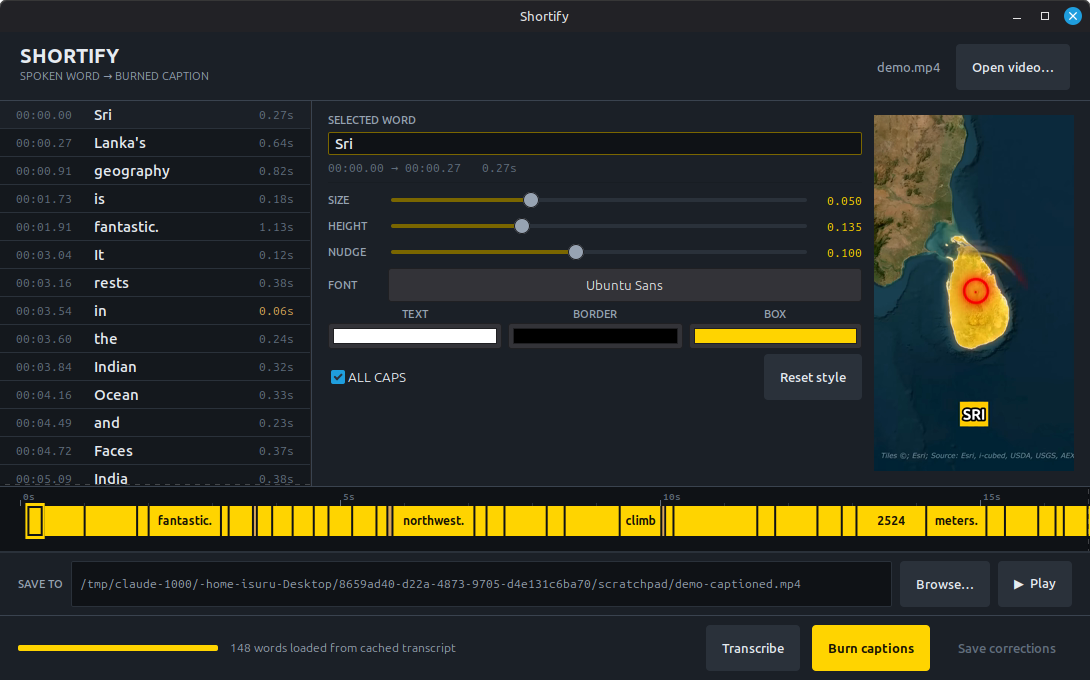
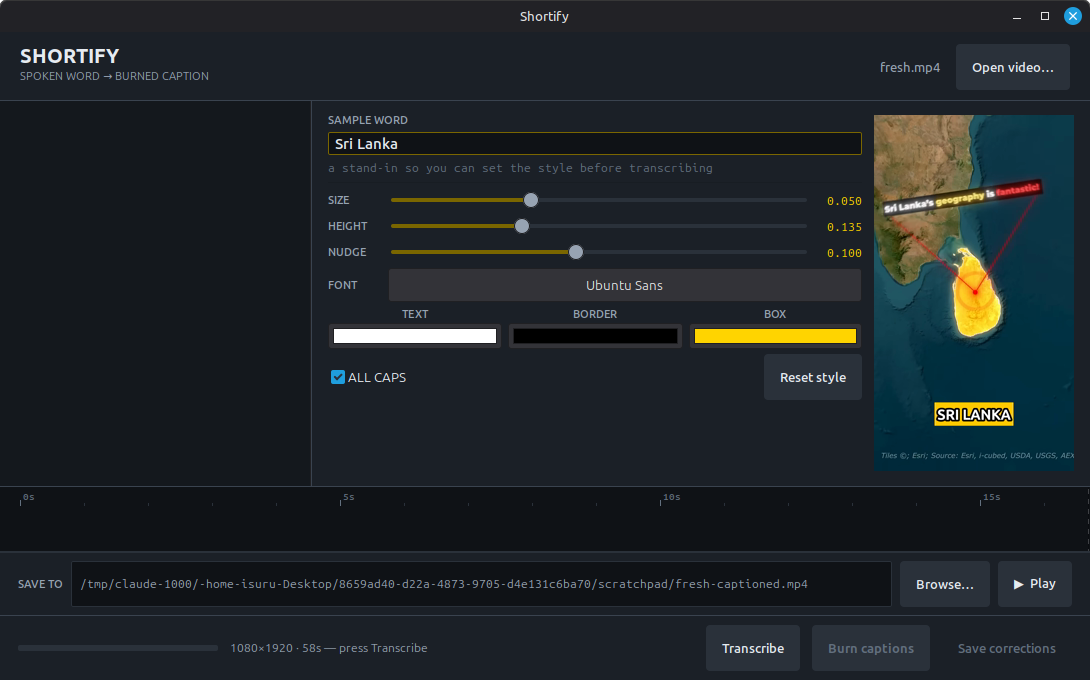
Live sample word so style is visible before transcribing
Loading a video showed a bare frame: the style sliders moved but changed
nothing on screen until a transcript existed. The word box now doubles as a
sample field before transcription, rendering a stand-in caption (default
"Sri Lanka") through the real ASS pipeline, so size, height, colours and font
are all visible immediately. Multi-word samples work, which shows how a wide
caption sits in frame.

Also guards settings persistence until the widget tree is built -- the entry's
changed signal fired during _panel() before the sliders existed, and the
resulting AttributeError was being swallowed.

diff --git a/gui/ui.py b/gui/ui.py
@@ -15,7 +15,7 @@ from ribbon import Ribbon
 CONFIG = Path(os.path.expanduser("~/.config/shortify/settings.json"))
 DEFAULTS = dict(fontscale=0.050, marginscale=0.135, offset=0.100,
                 boxcolor="FFD400", textcolor="FFFFFF", bordercolor="000000",
-                font="Ubuntu Sans", upper=True)
+                font="Ubuntu Sans", upper=True, sample="Sri Lanka")
 
 SHORT_WORD = 0.10      # below this, timing is probably a glitch
 LONG_WORD  = 1.60      # above this, the caption hangs
@@ -95,6 +95,7 @@ class Shortify(Gtk.Window):
         self.busy = False
         self.proc = None
         self.cur = -1
+        self._ready = False
         self.tmp = Path(tempfile.mkdtemp(prefix="shortify-"))
         self.cfgv = self._load_settings()
 
@@ -113,6 +114,7 @@ class Shortify(Gtk.Window):
         self.connect("destroy", self._quit)
         self.connect("key-press-event", self._keys)
         self.stack.set_visible_child_name("empty")
+        self._ready = True          # widgets all exist; signals may now persist state
 
     # ---------- settings ----------
     def _load_settings(self):
@@ -124,6 +126,8 @@ class Shortify(Gtk.Window):
         return v
 
     def _save_settings(self):
+        if not self._ready:
+            return
         try:
             CONFIG.parent.mkdir(parents=True, exist_ok=True)
             json.dump(self._style(), open(CONFIG, "w"), indent=1)
@@ -227,13 +231,16 @@ class Shortify(Gtk.Window):
         cols = Gtk.Box(orientation=Gtk.Orientation.HORIZONTAL, spacing=12)
 
         r = Gtk.Box(orientation=Gtk.Orientation.VERTICAL, spacing=5)
-        r.pack_start(klass(Gtk.Label(label="SELECTED WORD", xalign=0), "sf-label"), False, False, 0)
+        self.editlabel = klass(Gtk.Label(label="SAMPLE WORD", xalign=0), "sf-label")
+        r.pack_start(self.editlabel, False, False, 0)
         self.edit = klass(Gtk.Entry(), "sf-edit")
-        self.edit.set_placeholder_text("click a chip in the ribbon")
+        self.edit.set_placeholder_text("type a word to preview the style")
+        self.edit.set_text(self.cfgv.get("sample", "Sri Lanka"))
         self.edit.connect("activate", lambda *_: self._commit(advance=True))
+        self.edit.connect("changed", self._edit_changed)
         r.pack_start(self.edit, False, False, 0)
-        self.editinfo = klass(Gtk.Label(label="Enter saves, then jumps to the next word",
-                                        xalign=0), "sf-time")
+        self.editinfo = klass(Gtk.Label(label="a stand-in so you can set the style "
+                                              "before transcribing", xalign=0), "sf-time")
         r.pack_start(self.editinfo, False, False, 0)
         r.pack_start(Gtk.Separator(), False, False, 2)
 
@@ -406,6 +413,9 @@ class Shortify(Gtk.Window):
             self._say(f"Cannot read that file: {e}", "sf-status-fail")
             return
         self.filelbl.set_text(os.path.basename(path))
+        self.editlabel.set_text("SAMPLE WORD")
+        self.editinfo.set_text("a stand-in so you can set the style before transcribing")
+        self.edit.set_text(self.cfgv.get("sample", "Sri Lanka"))
         self.outpath.set_text(str(Path(path).with_suffix("")) + "-captioned.mp4")
         self.stack.set_visible_child_name("work")
         self.ribbon.load([], self.duration)
@@ -473,6 +483,7 @@ class Shortify(Gtk.Window):
         self.list.show_all()
         self.ribbon.load(self.words, self.duration, self.sliders["offset"].get_value())
         self.progress.set_fraction(1.0)
+        self.editlabel.set_text("SELECTED WORD")
         self._lock(False)
         odd = sum(1 for w in self.words if w.get("drift"))
         note = f" · {odd} with odd timing (amber)" if odd else ""
@@ -541,6 +552,13 @@ class Shortify(Gtk.Window):
             self.edit.grab_focus()
             self.edit.select_region(0, -1)
 
+    def _edit_changed(self, _e):
+        """Before a transcript exists the box drives the sample word, not a correction."""
+        if not self.words:
+            self.cfgv["sample"] = self.edit.get_text()
+            self._save_settings()
+            self._queue_preview()
+
     def _save_fixes(self):
         path = ROOT / "fixes.txt"
         pairs = [(self.originals[i], self.words[i]["text"])
@@ -568,7 +586,8 @@ class Shortify(Gtk.Window):
                     textcolor=hex_of(self.colors["textcolor"].get_rgba()),
                     bordercolor=hex_of(self.colors["bordercolor"].get_rgba()),
                     boxcolor=hex_of(self.colors["boxcolor"].get_rgba()),
-                    font=fam, upper=self.caps.get_active())
+                    font=fam, upper=self.caps.get_active(),
+                    sample=self.cfgv.get("sample", "Sri Lanka"))
 
     def _cfg(self):
         s = self._style()
@@ -606,20 +625,23 @@ class Shortify(Gtk.Window):
         self._pv_id = None
         if not self.video or self.busy:
             return False
+        off = self.sliders["offset"].get_value()
         if self.words and 0 <= self.cur < len(self.words):
             w = self.words[self.cur]
-            t = (w["start"] + w["end"]) / 2 + self.sliders["offset"].get_value()
+            t = (w["start"] + w["end"]) / 2 + off
+            words = self.words
         else:
             t = min(1.0, self.duration / 2)
+            txt = self.edit.get_text().strip() or "Sri Lanka"
+            # placed so it straddles t *after* build_ass applies the offset
+            words = [{"start": t - 0.4 - off, "end": t + 0.4 - off, "text": txt}]
 
         def work():
             try:
                 png = str(self.tmp / "pv.png")
-                vf = "scale=200:-1"
-                if self.words:
-                    assf = str(self.tmp / "pv.ass")
-                    open(assf, "w").write(engine.build_ass(self.words, self.W, self.H, self._cfg()))
-                    vf = f"ass={assf},scale=200:-1"
+                assf = str(self.tmp / "pv.ass")
+                open(assf, "w").write(engine.build_ass(words, self.W, self.H, self._cfg()))
+                vf = f"ass={assf},scale=200:-1"
                 subprocess.run(["ffmpeg", "-y", "-v", "error", "-copyts", "-ss", f"{t:.2f}",
                                 "-i", self.video, "-frames:v", "1", "-vf", vf, png],
                                check=True, timeout=60)

diff --git a/README.md b/README.md
@@ -40,6 +40,8 @@ sudo apt install ffmpeg python3-gi python3-gi-cairo gir1.2-gtk-3.0 cmake build-e
 **App** — `python3 gui/ui.py`, then drag a video in. Transcribe, fix any wrong words in the
 ledger, adjust the style while watching the preview, hit Burn.
 
+- **Sample word** renders your style onto the video before you transcribe anything, so the
+  sliders do something visible from the moment a file is loaded — type any word to try it
 - **Save location** is shown and editable before you render — change it inline or via Browse
 - **Play** opens the captioned file once it exists, the original before that
 - **Colours** for letter fill, letter outline and box are set independently
